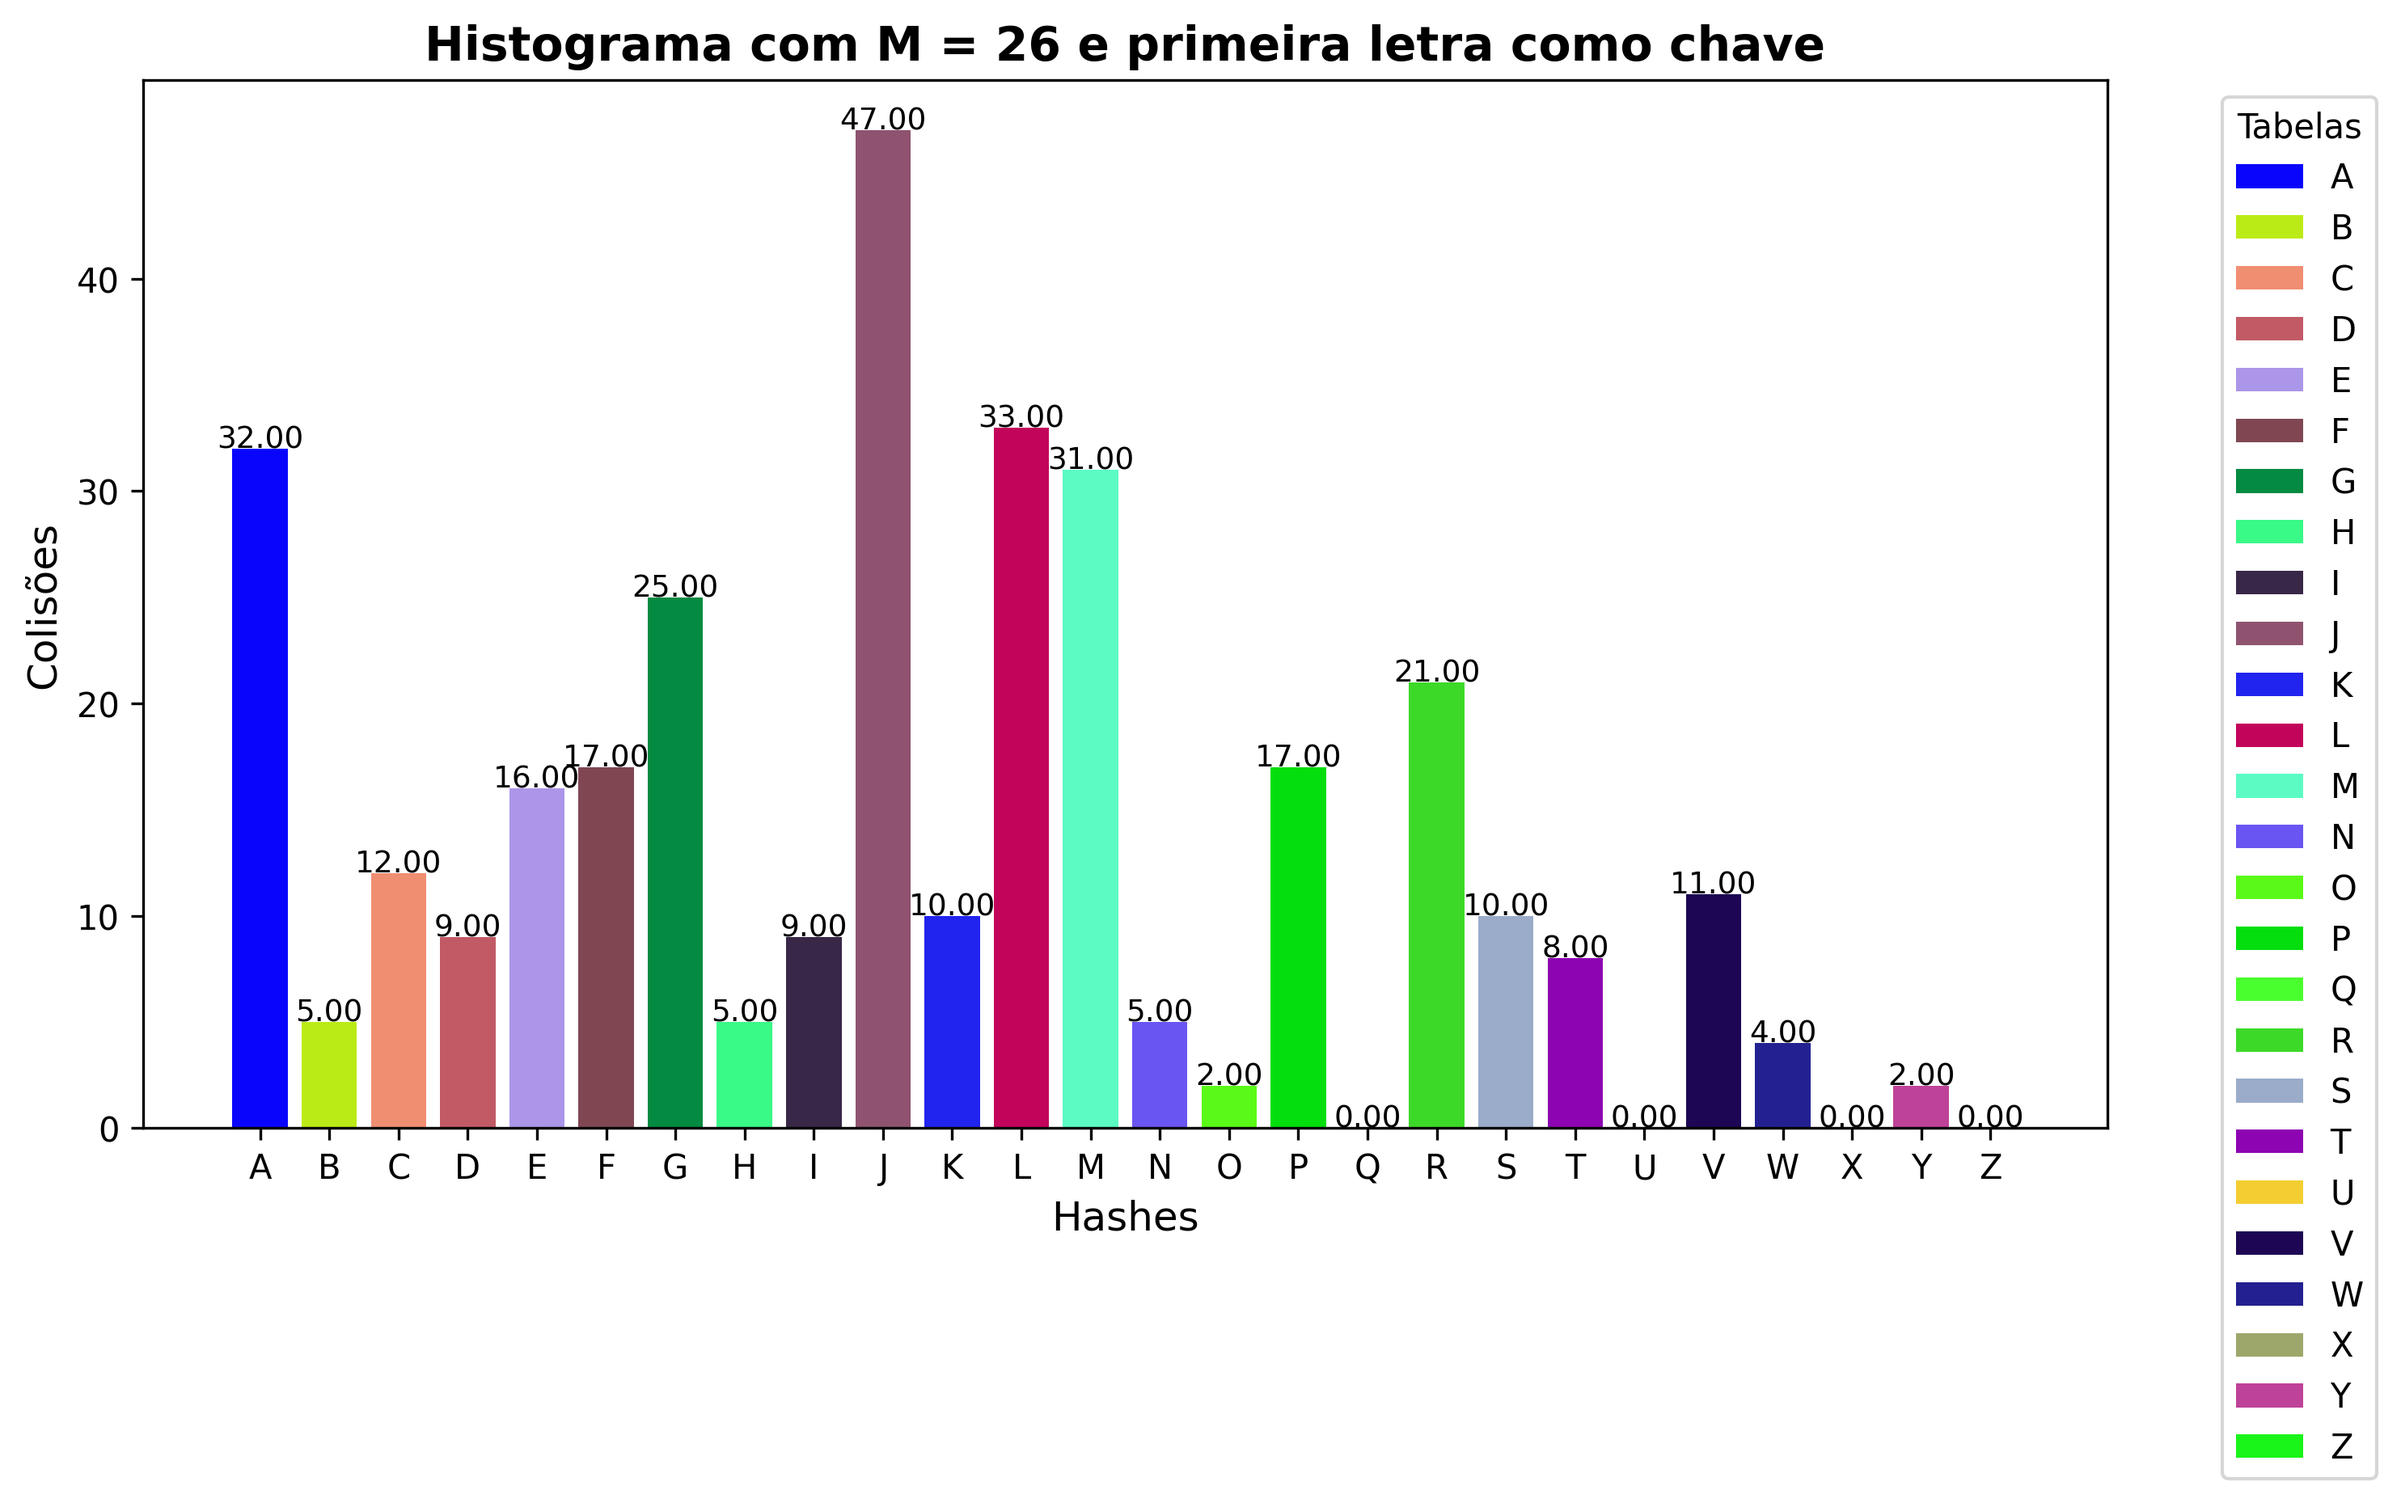
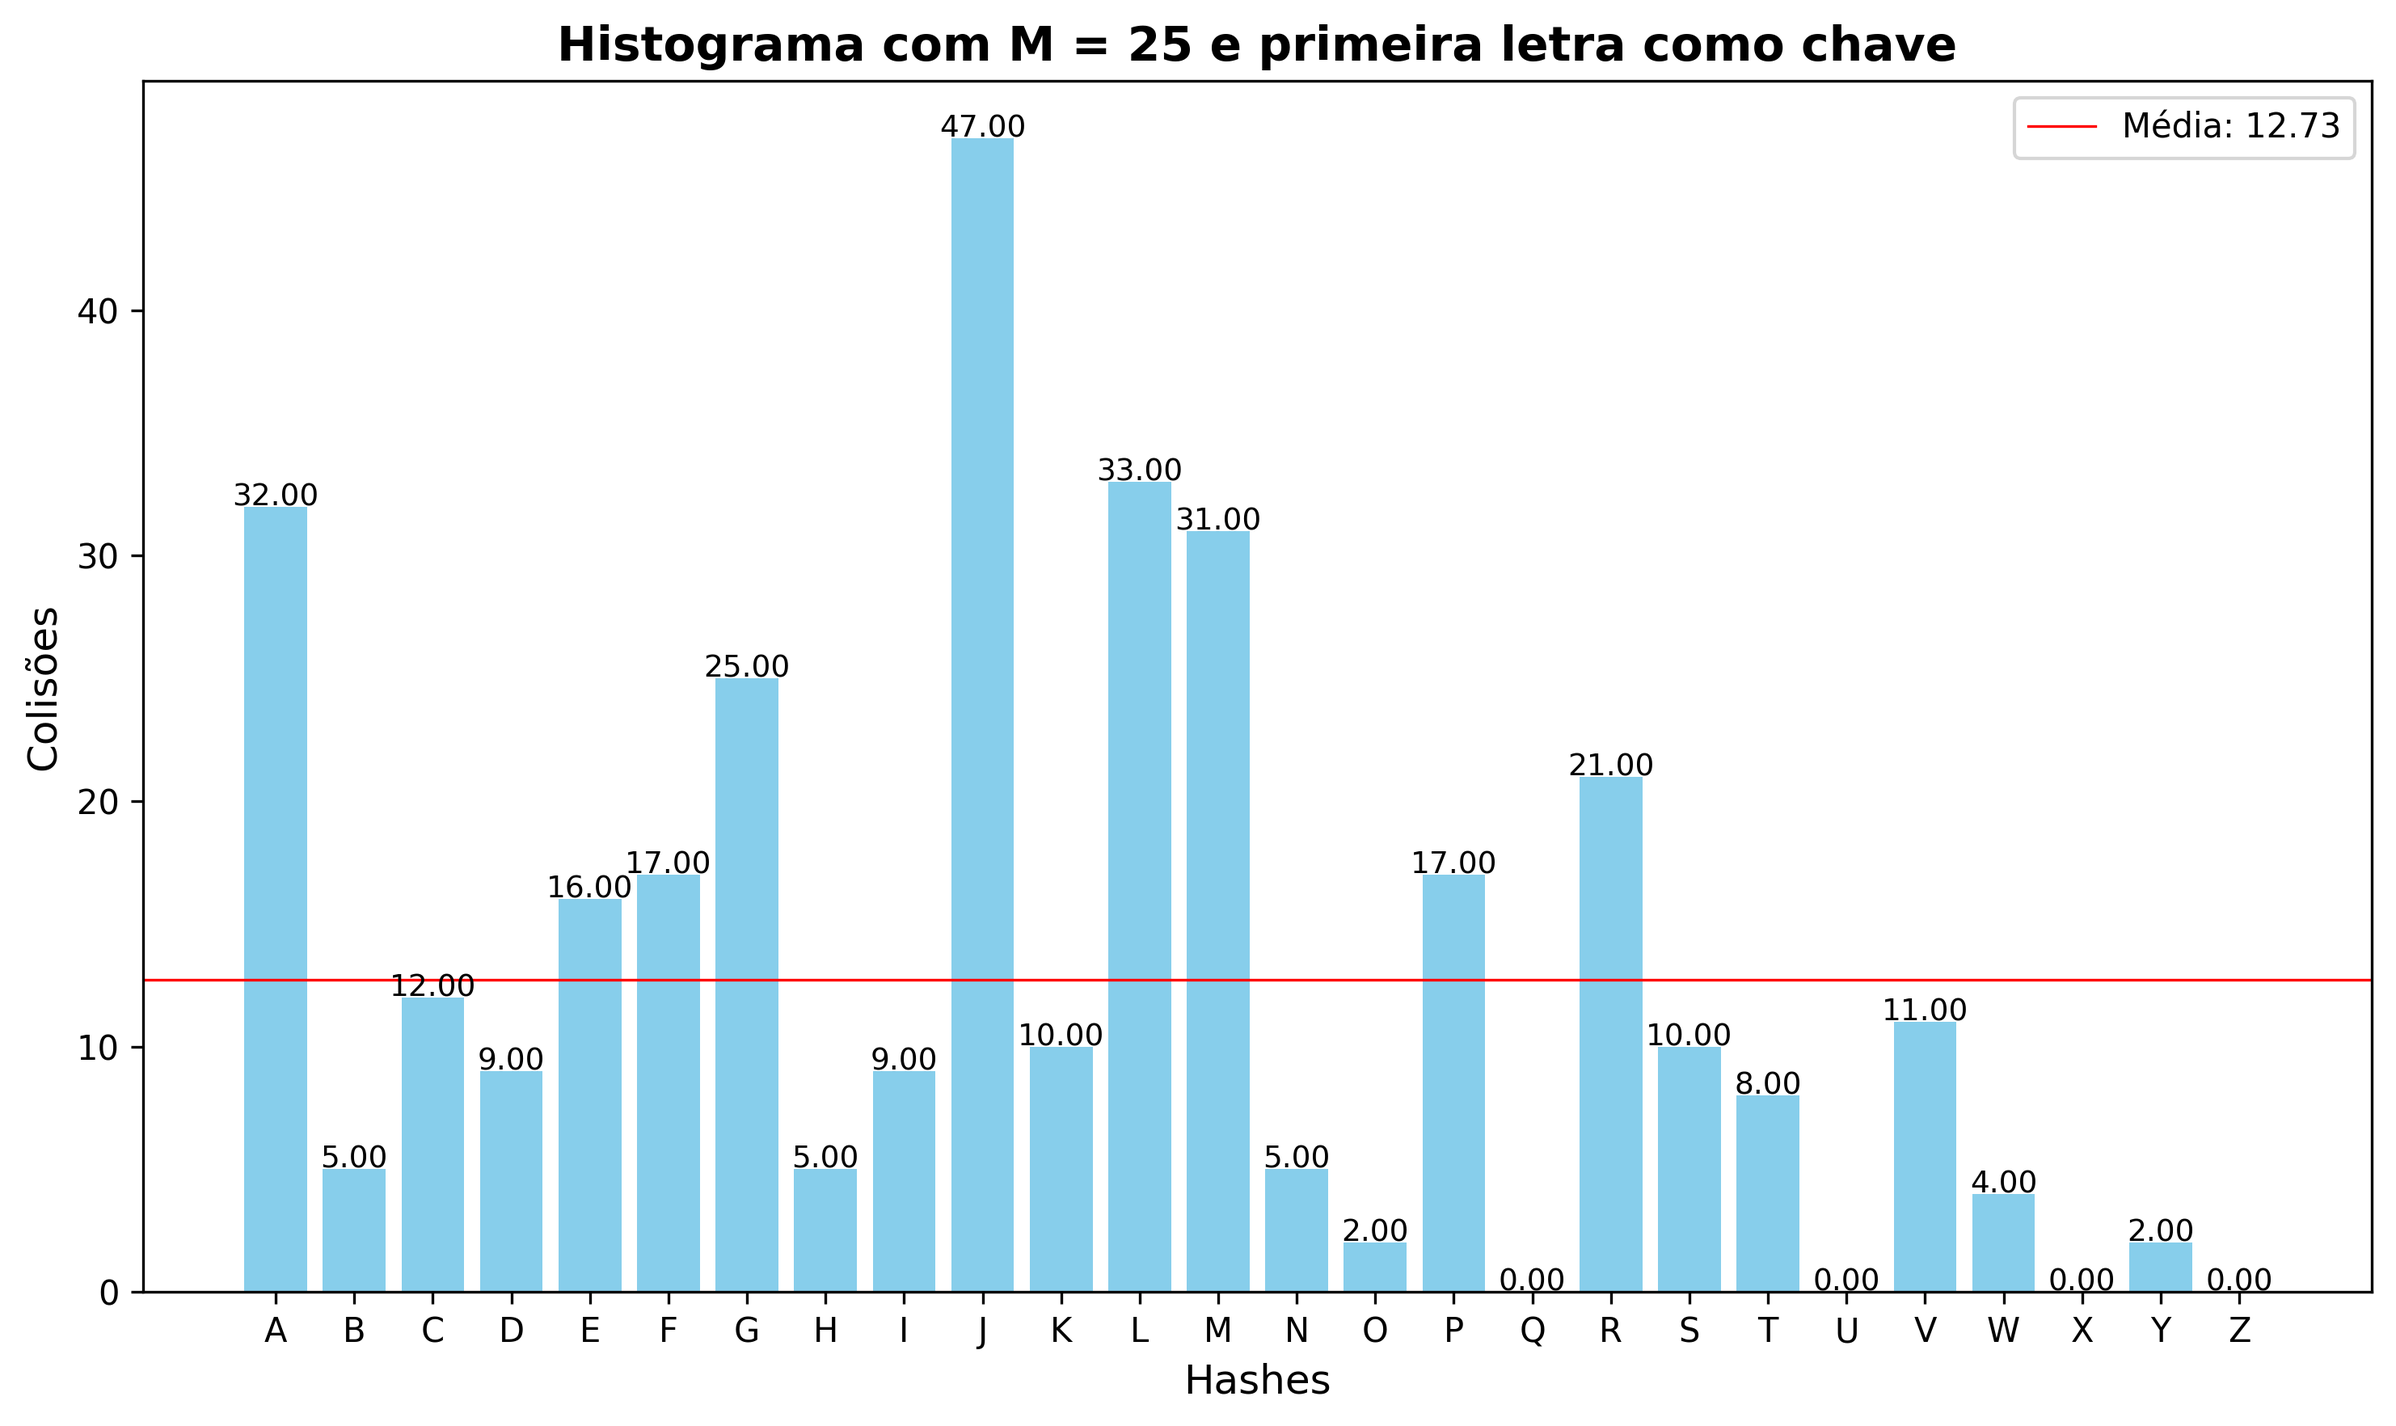
era um problema no x.ticks que tava fazendo a opereação com int, mas eu nao vi que na primeira questao tu passava uma string

diff --git a/TabelaDeSimbolos/menu.py b/TabelaDeSimbolos/menu.py
@@ -106,7 +106,7 @@ def costruir_grafico(x, y, Xlabel: str, Ylabel: str, title: str, Bar: bool = Tru
             )    
         plt.axhline(y=media, color='red', linestyle='-', label=f'Média: {media:.2f}', linewidth=0.8)
         plt.legend()
-        plt.xticks([0, x[-1]], fontsize=10)
+        #plt.xticks([0, x[-1]], fontsize=10)
         
    
     plt.tight_layout() 
